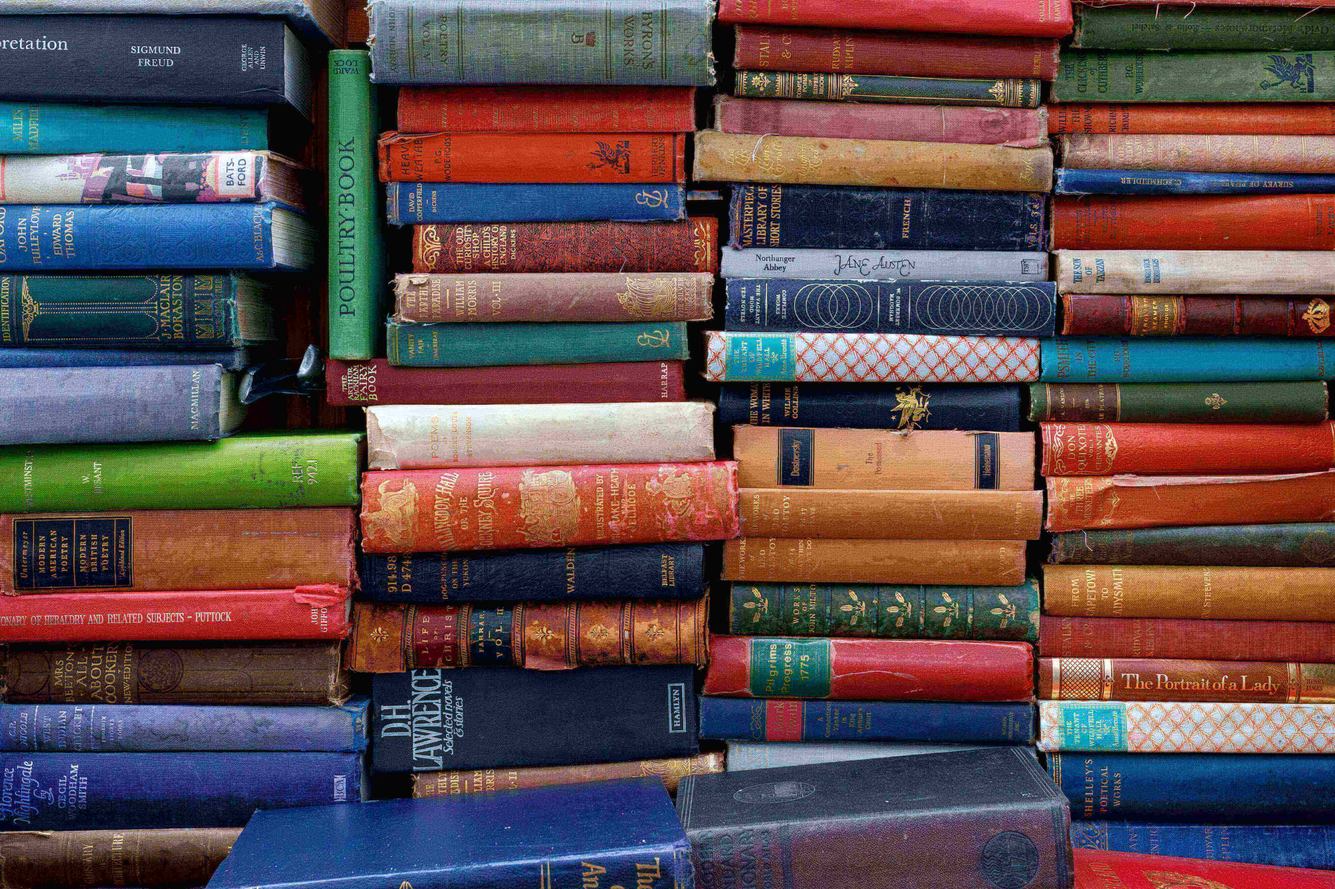
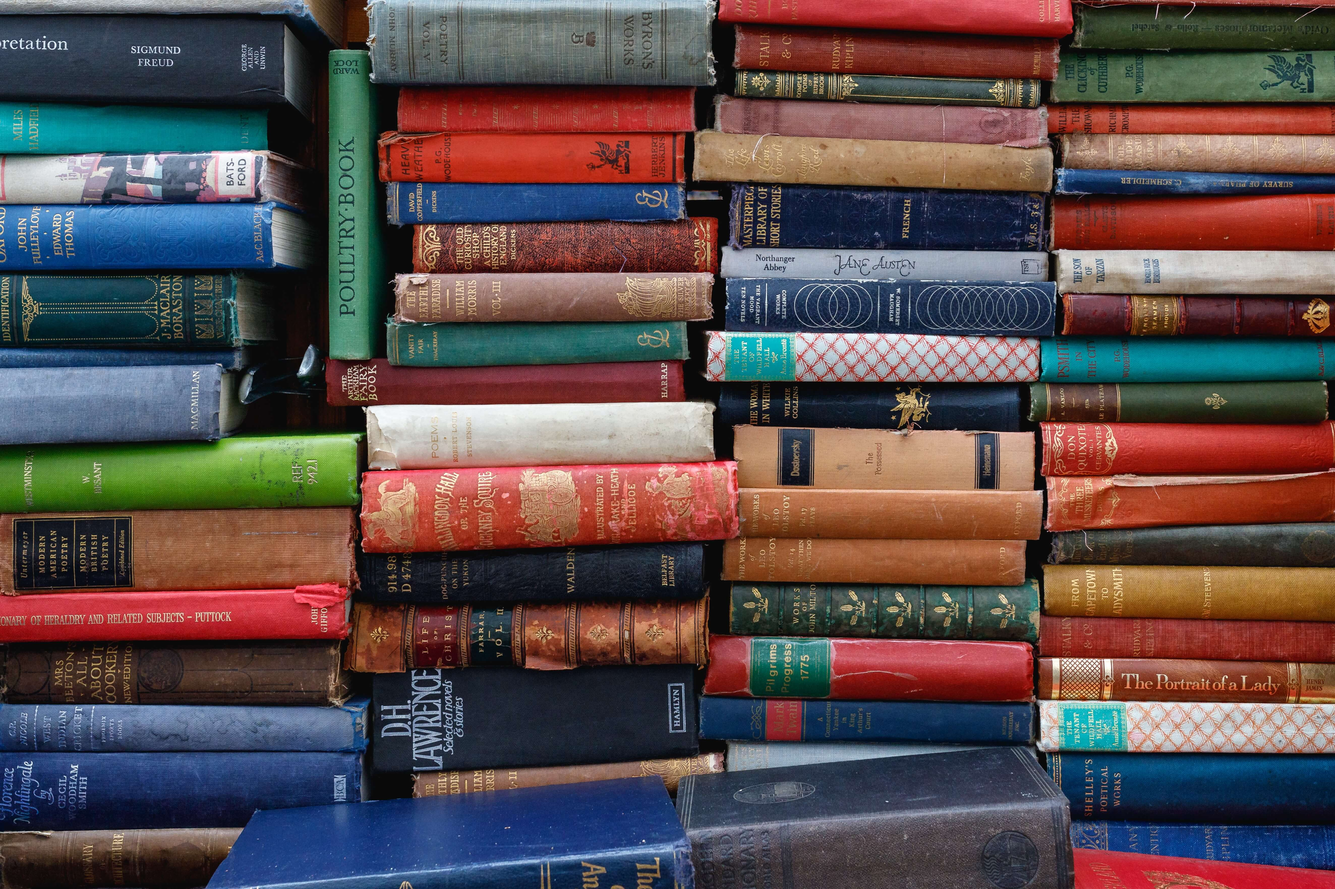
huge bg, opacity
continue with featured post testing

Changed region(s): [[0.0, 0.0, 1.0, 1.0], [0.0623, 0.9974, 0.0935, 1.0]]

diff --git a/_archives/2cents.html b/_archives/2cents.html
@@ -6,23 +6,23 @@ category: 2cents
 ---
 
 <!------------------------ Archive Blog Loop ------------------------>
-<section class="padded">
-    <div class="capped-width grid-center bg-image bg-books">
+<section class="padded bg-image bg-books">
+    <div class="capped-width grid-center dark-transparent opacity-9">
 
         {% include category-post-loop.html %}
 
     </div>
-    <div class="attribute">
-        <p> - Photo by <a href="https://unsplash.com/@eddrobertson?utm_source=unsplash&utm_medium=referral&utm_content=creditCopyText">Ed Robertson</a> on <a href="https://unsplash.com/s/photos/books?utm_source=unsplash&utm_medium=referral&utm_content=creditCopyText">Unsplash</a> </p>
-    </div>
 </section>
+<div class="attribute">
+    <p> - Photo by <a href="https://unsplash.com/@eddrobertson?utm_source=unsplash&utm_medium=referral&utm_content=creditCopyText">Ed Robertson</a> on <a href="https://unsplash.com/s/photos/books?utm_source=unsplash&utm_medium=referral&utm_content=creditCopyText">Unsplash</a> </p>
+</div>
 
 <!-- Quote Section -->
 <section class="padded-lg sm-padded-1 sm-padded-t-lg grid">
     <div class="col-1-middle center padded-l-1 sm-padded-l-0">
         <span class="quote-icon" style="font-family: 'Emilys Candy';">“</span>
     </div>
-    <div class="col-10 center">
+    <div class="col-10 xs-padded-lr-5 center">
         <p class="quote"> If you keep on feeding your <span style="font-family: 'Windsong', cursive; font-size: 3rem;">Ego </span>, one day it'll going to be so big and it'll start feeding on you greedily, and you won't even notice until it's way too late, that you're left with nothing but <span style="font-family: 'Windsong', cursive; font-size: 3rem;">Regret... </span> </p>
         <p class="subtitle"> - Jess </p>
     </div>
@@ -30,6 +30,5 @@ category: 2cents
         <span class="quote-icon" style="font-family: 'Emilys Candy';">”</span>
     </div>
 </section>
-
 
 {% include site-footer.html %}

diff --git a/_archives/poems.html b/_archives/poems.html
@@ -6,23 +6,23 @@ category: poems
 ---
 
 <!------------------------ Archive Blog Loop ------------------------>
-<section class="padded">
-    <div class="capped-width grid-center bg-image bg-white-rose">
+<section class="padded bg-image bg-white-rose">
+    <div class="capped-width grid-center dark-transparent opacity-9">
 
         {% include category-post-loop.html %}
 
     </div>
-    <div class="attribute">
-        <p> - Photo by <a href="https://unsplash.com/@anniespratt?utm_source=unsplash&utm_medium=referral&utm_content=creditCopyText">Annie Spratt</a> on <a href="https://unsplash.com/?utm_source=unsplash&utm_medium=referral&utm_content=creditCopyText">Unsplash</a> </p>
-    </div>
 </section>
+<div class="attribute">
+    <p> - Photo by <a href="https://unsplash.com/@anniespratt?utm_source=unsplash&utm_medium=referral&utm_content=creditCopyText">Annie Spratt</a> on <a href="https://unsplash.com/?utm_source=unsplash&utm_medium=referral&utm_content=creditCopyText">Unsplash</a> </p>
+</div>
 
 <!-- Quote Section -->
 <section class="padded-lg sm-padded-1 sm-padded-t-lg grid">
     <div class="col-1-middle center padded-l-1 sm-padded-l-0">
         <span class="quote-icon" style="font-family: 'Emilys Candy';">“</span>
     </div>
-    <div class="col-10 center">
+    <div class="col-10 xs-padded-lr-5 center">
         <p class="quote"> It's amazing how a heart can carry so much <span style="font-family: 'Windsong', cursive; font-size: 3rem;">pain </span>, and still be able to <span style="font-family: 'Windsong', cursive; font-size: 3rem;">Love </span> at the same time... </p>
         <p class="subtitle"> - Jess </p>
     </div>
@@ -30,6 +30,5 @@ category: poems
         <span class="quote-icon" style="font-family: 'Emilys Candy';">”</span>
     </div>
 </section>
-
 
 {% include site-footer.html %}

diff --git a/_archives/stories.html b/_archives/stories.html
@@ -6,23 +6,23 @@ category: stories
 ---
 
 <!------------------------ Archive Blog Loop ------------------------>
-<section class="padded">
-    <div class="capped-width grid-center bg-image bg-writing">
+<section class="padded bg-image bg-writing">
+    <div class="capped-width grid-center dark-transparent opacity-9">
 
         {% include category-post-loop.html %}
 
     </div>
-    <div class="attribute">
-        <p> - Photo by <a href="https://unsplash.com/@mrika?utm_source=unsplash&utm_medium=referral&utm_content=creditCopyText">Mrika Selimi</a> on <a href="https://unsplash.com/?utm_source=unsplash&utm_medium=referral&utm_content=creditCopyText">Unsplash</a> </p>
-    </div>
 </section>
+<div class="attribute">
+    <p> - Photo by <a href="https://unsplash.com/@mrika?utm_source=unsplash&utm_medium=referral&utm_content=creditCopyText">Mrika Selimi</a> on <a href="https://unsplash.com/?utm_source=unsplash&utm_medium=referral&utm_content=creditCopyText">Unsplash</a> </p>
+</div>
 
 <!-- Quote Section -->
 <section class="padded-lg sm-padded-1 sm-padded-t-lg grid">
     <div class="col-1-middle center padded-l-1 sm-padded-l-0">
         <span class="quote-icon" style="font-family: 'Emilys Candy';">“</span>
     </div>
-    <div class="col-10 center">
+    <div class="col-10 xs-padded-lr-5 center">
         <p class="quote"> <span style="font-family: 'Windsong', cursive; font-size: 3rem;">imagine... </span> <br> if all the things that you loved and cared for, were just fragments of the imaginations that you conjured, to make your life a little more bearable...  </p>
         <p class="subtitle"> - Jess </p>
     </div>
@@ -30,6 +30,5 @@ category: stories
         <span class="quote-icon" style="font-family: 'Emilys Candy';">”</span>
     </div>
 </section>
-
 
 {% include site-footer.html %}

diff --git a/style.css b/style.css
@@ -511,6 +511,8 @@ img:hover.mailbox { animation: none; }
   border-radius: 1px;
 }
 
+.opacity-9 { opacity: 0.9; }
+
 /* Background Images */
 .bg-stories {
   background-image: url("/images/writer.jpg");
@@ -649,7 +651,7 @@ img:hover.mailbox { animation: none; }
   text-decoration: none;
 }
 
-.post-image:first-child { border-bottom: none; }
+.post-item .post-image:first-child { border-bottom: none; }
 .post-image {
   min-height: 25vh;
   background-color: var(--light-text);
@@ -795,7 +797,7 @@ img:hover.mailbox { animation: none; }
 
 .toggle-container {
   background-color: var(--featured);
-  height: 1.55rem;
+  height: 1.65rem;
   width: 3rem;
   padding: 0.2rem;
   display: inline-block;
@@ -975,6 +977,7 @@ hr.short.center {
   .xs-padded-r-0 { padding-right: 0; }
   .xs-padded-l-0 { padding-left: 0; }
   .xs-padded-lr { padding-left: 7%; padding-right: 7%; }
+  .xs-padded-lr-5 { padding-left: 5%; padding-right: 5%; }
   .xs-padded-t-lg { padding-top: 10%; }
 
   .logo { min-height: 7vh; width: 125px; }
@@ -993,8 +996,9 @@ hr.short.center {
     padding-bottom: 5%;
   }
 
+  .dark-transparent { opacity: 0.75; }
   .sidebar-nav { height: 0; right: -20px; }
-  .sidebar-button { font-size: 3rem; color: var(--v-light); }
+  .sidebar-button { font-size: 3rem; color: #e4e1dd; }
   .sidebar-menu .nav-title { padding-bottom: 0; }
   .sidebar-menu .nav-title:first-child { padding-bottom: 1rem; }
   .sidebar-menu {

diff --git a/index.html b/index.html
@@ -45,9 +45,9 @@ seo:
 
         {% for post in featured_posts limit:2 %}
 
-            <div class="grid post-item padded">
-                <div class="col-6_xs-12 bg-image padded" style="background-image:url( '{{ post.featured_image }}' );"></div>
-                <div class="col-6_xs-12 padded post-text xs-text-center">
+            <div class="grid padded">
+                <div class="col-6_xs-12 bg-image post-image padded" style="background-image:url( '{{ post.featured_image }}' );"></div>
+                <div class="col-6_xs-12 padded post-image xs-text-center">
                     
                     {% for item in post.categories %}
                         <span class="tag"> {{item}} </span>

diff --git a/_includes/category-post-loop.html b/_includes/category-post-loop.html
@@ -1,6 +1,6 @@
 <div class="col-12 padded center margin-b-1">
 
-    <h2 class="dark-transparent padded text-light"> {{ page.title }}</h2>
+    <h2 class="padded-t xs-padded-t-lg text-light"> {{ page.title }}</h2>
     {{ page.description_html }}
 
 </div>
